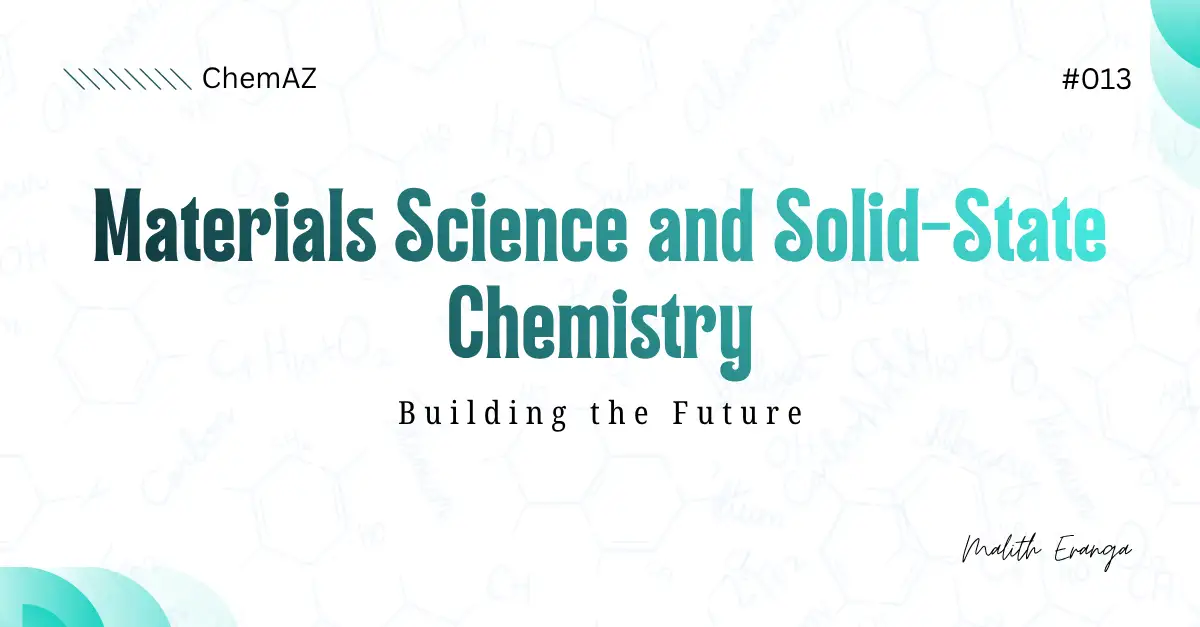
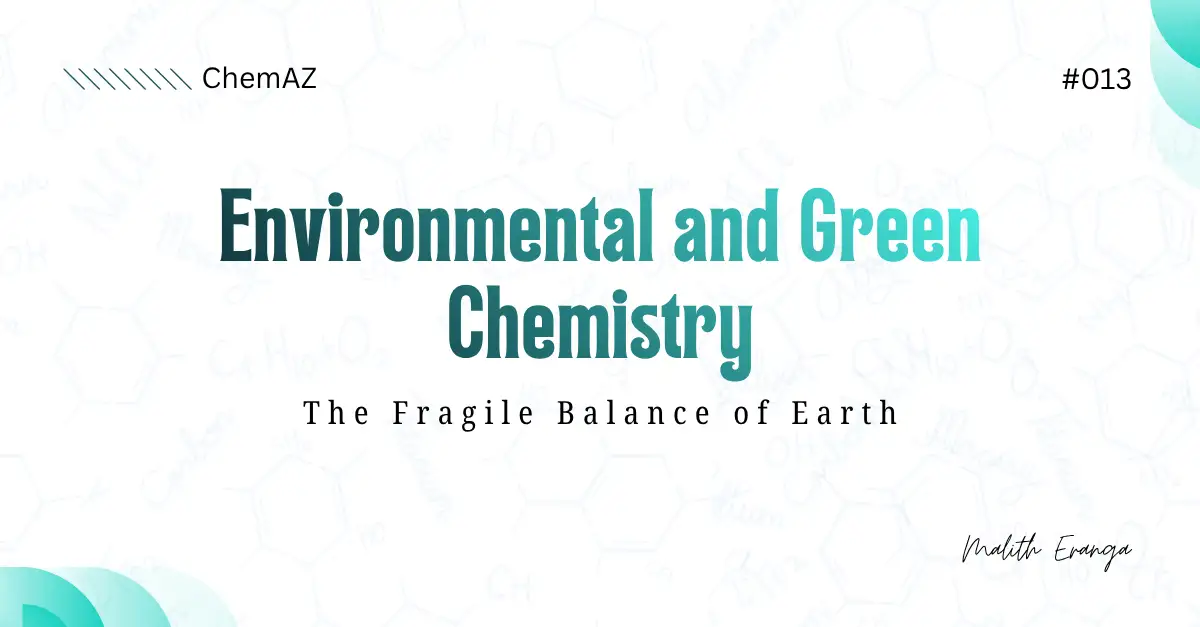
11

Changed region(s): [[0.0617, 0.303, 0.925, 0.4242], [0.2467, 0.6364, 0.74, 0.697]]

diff --git a/Article.html b/Article.html
@@ -1323,9 +1323,158 @@
             {
                 id: 15, 
                 category: 'ChemAZ', 
-                title: 'Materials Science and Solid-State Chemistry - Building the Future',
+                title: 'Environmental and Green Chemistry - The Fragile Balance of Earth',
                 date: 'October 15, 2026', 
                 image: 'Article/A13.webp',
+                excerpt: 'We live inside a planetary-scale chemical reactor known as Earth. Dive into Environmental Chemistry to understand how our planet breathes, and explore the revolutionary paradigm shift of Green Chemistry designed to save our civilization.',
+                content: `
+                    <p>Throughout the vast, sequential journey of the ChemAZ Series, we have meticulously built an understanding of the physical universe from the bottom up. We started with the indivisible atom and the elegant map of the Periodic Table. We observed how energy dictates the states of matter, how organic carbon weaves the complex tapestry of life, how biochemistry automates human cells, and how the relentless laws of thermodynamics govern the fate of stars.</p>
+                    <p>Until now, we have mostly treated these chemical principles as isolated phenomena. We have imagined them occurring inside perfectly controlled laboratory beakers, or within the strictly regulated, microscopic borders of a single biological cell.</p>
+                    <p>But reality is not a closed laboratory. We exist on a massive, chaotic, incredibly dynamic sphere composed of interacting liquids, solids, and gases. We live inside a planetary-scale chemical reactor known as Earth.</p>
+                    <p>Every single chemical law we have studied applies to our planet. The atmosphere, the oceans, the soil, and all living organisms are locked in a continuous, multi-billion-year-old chemical exchange. However, over the past two centuries, a single biological species - humanity - has industrialized to the point where we are now capable of altering the fundamental chemical equilibrium of the entire globe.</p>
+                    <p>This brings us to one of the most critical and urgent scientific disciplines of the modern era. In this massive, comprehensive exploration, we will dive into Environmental Chemistry to understand exactly how our planet breathes, regulates its temperature, and purifies its water. We will examine the microscopic mechanics of the ozone layer, the quantum physics of the greenhouse effect, and the chemical tragedy of oceanic dead zones. Finally, we will explore the revolutionary paradigm shift of Green Chemistry - the ultimate scientific roadmap designed to save our civilization from its own toxic success.</p>
+
+                    <h3>Defining the Chemical Sphere: The Four Realms of Earth</h3>
+                    <p>Environmental chemistry is the study of chemical species in the natural environment, tracking their sources, reactions, transport, and ultimate fates. To comprehend this massive system, chemists divide the Earth into four interconnected spheres:</p>
+                    <ul>
+                        <li><strong>1. The Atmosphere:</strong> The thin, gaseous envelope surrounding the planet, regulating temperature and shielding the surface from cosmic radiation.</li>
+                        <li><strong>2. The Hydrosphere:</strong> All the liquid and frozen water on the planet, acting as the universal solvent and the primary thermal sink for global heat.</li>
+                        <li><strong>3. The Lithosphere:</strong> The solid, rocky crust and upper mantle of the Earth, containing the soils and mineral deposits that provide the foundational nutrients for all life.</li>
+                        <li><strong>4. The Biosphere:</strong> The sum of all living organisms, acting as a massive, automated chemical processing engine that constantly cycles carbon, nitrogen, and oxygen through the other three spheres.</li>
+                    </ul>
+                    <p>Environmental chemistry is the study of what happens when these four spheres overlap and trade atoms.</p>
+
+                    <h3>The Chemistry of the Atmosphere: The Breath of the Planet</h3>
+                    <p>The Earth's atmosphere is not a static, empty void. It is a highly pressurized, violently active chemical soup. By volume, the dry atmosphere is composed of roughly 78 percent Nitrogen gas (N2) and 21 percent Oxygen gas (O2). The remaining 1 percent is a mixture of Argon, Carbon Dioxide, and trace gases.</p>
+                    <p>However, the atmosphere is not uniform. Gravity compresses the gas, meaning the air is thickest at the surface and becomes progressively thinner as you travel upward into space. Chemists divide the atmosphere into layers based on temperature gradients. The two most chemically important layers are the Troposphere and the Stratosphere.</p>
+                    
+                    <p><strong>The Troposphere: The Realm of Weather</strong><br>
+                    The troposphere is the lowest layer, extending from the ground up to about 10 kilometers. This is where we live, where airplanes fly, and where almost all the water vapor in the atmosphere exists. Because of the water vapor and the immense heat radiating off the Earth's surface, the troposphere is a chaotic, turbulent place. It is defined by rapid vertical mixing, massive storm systems, and continuous chemical reactions driven by sunlight.</p>
+                    
+                    <p><strong>The Stratosphere: The Silent Shield</strong><br>
+                    Above the troposphere lies the stratosphere, extending up to 50 kilometers. Unlike the turbulent troposphere, the stratosphere is highly stratified and calm. There are no clouds, no rain, and almost no vertical mixing of air. Once a chemical enters the stratosphere, it can remain trapped there for decades. This calm, high-altitude layer contains one of the most important chemical defenses in the solar system: the Ozone Layer.</p>
+
+                    <h3>The Ozone Paradox: A Shield and a Pollutant</h3>
+                    <p>Ozone is a unique, highly reactive molecule consisting of exactly three oxygen atoms bonded together (O3). In environmental chemistry, ozone suffers from a bizarre dual identity. Its impact on human life depends entirely on where it is located.</p>
+                    <p>Down in the troposphere, where we breathe, ozone is a highly toxic pollutant. It is a powerful oxidizing agent that burns lung tissue, exacerbates asthma, and destroys agricultural crops. Ground-level ozone is the primary ingredient in photochemical smog, created when vehicle exhaust reacts with intense summer sunlight.</p>
+                    <p>But high up in the stratosphere, ozone is the literal savior of all terrestrial life.</p>
+                    
+                    <p><strong>The Chapman Cycle: The Sacrificial Shield</strong><br>
+                    The sun constantly bombards the Earth with lethal, high-energy Ultraviolet (UV) radiation. If this raw UV radiation reached the surface, it would instantly shatter the DNA of every living organism, sterilizing the surface of the planet.</p>
+                    <p>The stratospheric ozone layer prevents this through a miraculous, continuous chemical reaction known as the Chapman Cycle.</p>
+                    <p>When high-energy UV-C radiation strikes a normal, two-atom oxygen molecule (O2), the energy completely shatters the covalent bond, splitting it into two lonely, highly reactive oxygen atoms. These free oxygen atoms immediately crash into other intact O2 molecules, fusing to create Ozone (O3).</p>
+                    <p>When slightly lower-energy UV-B radiation strikes the newly formed Ozone molecule, the ozone absorbs the deadly radiation and shatters, reverting back into normal O2 and a free oxygen atom.</p>
+                    <p>This continuous cycle of breaking apart and rebuilding acts as a perfect, sacrificial thermal shield. The ozone layer physically absorbs over 98 percent of the sun's lethal UV radiation, converting that deadly energy into harmless thermal heat.</p>
+                    
+                    <p><strong>The Chemical Tragedy of CFCs</strong><br>
+                    In the 1920s, chemists invented a class of synthetic chemicals called Chlorofluorocarbons (CFCs). These molecules, made of carbon, chlorine, and fluorine, were hailed as a miracle of modern engineering. They were non-toxic, non-flammable, and chemically inert, making them perfect for use as refrigerants in air conditioners and propellants in aerosol hairsprays.</p>
+                    <p>Because CFCs were so incredibly stable, they did not react with anything in the lower atmosphere. Instead, over decades, they slowly drifted upward until they reached the stratosphere.</p>
+                    <p>Once in the stratosphere, the CFCs were exposed to the raw, unshielded UV radiation of the sun. The extreme UV energy shattered the carbon-chlorine bonds, releasing highly reactive, free Chlorine atoms (chlorine free radicals).</p>
+                    <p>This is where the tragedy occurred. A single chlorine free radical acts as a hyper-efficient catalyst for the destruction of ozone. The chlorine atom rips an oxygen atom away from an ozone molecule, destroying the ozone. It then drops the oxygen atom and moves on to attack another ozone molecule. A single chlorine atom can destroy over 100,000 ozone molecules before it is finally removed from the stratosphere.</p>
+                    <p>By the 1980s, analytical chemists discovered a massive, terrifying "hole" in the ozone layer over Antarctica. The synthetic chemicals we had designed to keep our refrigerators cold were systematically dismantling the planetary shield that protected our DNA. In an unprecedented triumph of global environmental chemistry, the world signed the Montreal Protocol in 1987, universally banning the production of CFCs. Today, the ozone layer is slowly, painstakingly repairing itself.</p>
+
+                    <h3>The Thermodynamics of the Greenhouse Effect</h3>
+                    <p>While the ozone layer protects us from incoming ultraviolet light, another atmospheric mechanism regulates the outgoing heat. This is the Greenhouse Effect, and to understand it, we must apply the quantum physics of molecular vibration that we discussed in Part 009.</p>
+                    <p>The sun heats the Earth using visible light. This high-energy light passes straight through the atmosphere without interacting with the gases. The ground absorbs this visible light, heats up, and radiates that energy back out toward space. However, because the Earth is much cooler than the sun, it radiates energy at a much lower frequency: Infrared Radiation (thermal heat).</p>
+                    <p>If the Earth had no atmosphere, all of this infrared heat would escape instantly into the frozen vacuum of space. The average temperature of the Earth would be roughly -18 degrees Celsius, and our oceans would be solid blocks of ice.</p>
+                    <p>We are kept warm by Greenhouse Gases - primarily Carbon Dioxide (CO2), Methane (CH4), and Water Vapor (H2O).</p>
+                    <p>Why do these specific gases trap heat, while the Nitrogen (N2) and Oxygen (O2) that make up 99 percent of our air do not? It comes down to quantum geometry.</p>
+                    <p>Nitrogen and Oxygen are diatomic molecules made of two identical atoms. They are perfectly symmetrical. When an infrared heat wave hits them, they cannot absorb the energy, so the heat passes right through them.</p>
+                    <p>Carbon Dioxide and Methane are polyatomic molecules. They have multiple bonds and complex geometries. When an infrared heat wave strikes a CO2 molecule, the molecule physically absorbs the quantum energy. The carbon-oxygen double bonds begin to violently vibrate, stretch, and bend.</p>
+                    <p>The CO2 molecule traps the heat energy for a fraction of a millisecond, and then it re-radiates that heat in a random direction. Much of that heat is radiated back down toward the surface of the Earth. The greenhouse gases act like a massive, invisible thermal blanket, bouncing the heat back and forth and raising the average global temperature to a comfortable, life-sustaining 15 degrees Celsius.</p>
+                    
+                    <p><strong>Anthropogenic Climate Change: The Imbalance of Carbon</strong><br>
+                    The greenhouse effect is a perfectly natural, essential chemical process. The crisis of Climate Change is simply a problem of extreme mathematical imbalance.</p>
+                    <p>For hundreds of millions of years, the Earth safely locked massive amounts of carbon underground in the form of highly compressed hydrocarbons - coal, oil, and natural gas. In the late 18th century, humanity discovered that we could dig up these hydrocarbons and subject them to an exothermic combustion reaction to generate immense mechanical power.</p>
+                    <p>By burning fossil fuels, we are taking carbon that was safely buried for 300 million years and instantly injecting it directly into the atmosphere as Carbon Dioxide. Since the Industrial Revolution, we have artificially increased the concentration of atmospheric CO2 by over 50 percent.</p>
+                    <p>By adding more vibrating, heat-trapping molecules to the atmospheric blanket, we are mathematically forcing the planet to retain more thermal energy. The thermodynamics are undeniable. This excess heat melts glacial ice, causes the thermal expansion of the oceans (leading to catastrophic sea-level rise), and injects massive amounts of chaotic kinetic energy into weather systems, resulting in super-hurricanes and devastating droughts.</p>
+                    
+                    <p><strong>Ocean Acidification: The Silent Collapse</strong><br>
+                    The excess CO2 does not just stay in the air. As we discussed in Part 006 regarding Acids and Bases, gases dissolve into liquids. The Earth's oceans act as a massive chemical sink, absorbing roughly 30 percent of all the artificial CO2 emitted by human industry.</p>
+                    <p>When CO2 dissolves in seawater, it undergoes a synthesis reaction with H2O to form Carbonic Acid. This massive influx of acid forces the pH of the global oceans to drop. Because the pH scale is logarithmic, the oceans are now roughly 30 percent more acidic than they were in pre-industrial times.</p>
+                    <p>This drop in pH unleashes a swarm of free hydrogen ions. These hydrogen ions aggressively bond with carbonate molecules in the water. Unfortunately, marine life like corals, oysters, and plankton desperately need those exact same carbonate molecules to build their calcium carbonate shells. The acidic water literally steals the building blocks of marine life. If the ocean pH drops too far, the water will become so corrosive that it will physically dissolve existing coral reefs, collapsing the foundation of the entire marine food web.</p>
+
+                    <h3>The Hydrosphere: The Universal Solvent's Burden</h3>
+                    <p>Beyond absorbing carbon, the hydrosphere faces immense chemical threats from industrial pollution. Because water is a highly polar molecule, it is the universal solvent. It dissolves and transports almost everything it touches, including heavy metals and synthetic agricultural chemicals.</p>
+                    
+                    <p><strong>Heavy Metal Toxicity and Biomagnification</strong><br>
+                    Industrial processes like mining, coal combustion, and battery manufacturing release heavy metals like Lead, Mercury, and Cadmium into the environment.</p>
+                    <p>Unlike organic compounds, heavy metals are fundamental elements on the Periodic Table. They cannot be broken down, burned, or destroyed. Once a mercury atom enters a river, it remains a mercury atom forever.</p>
+                    <p>When heavy metals enter the water, they are absorbed by microscopic algae. Because the heavy metals are not biologically useful, the algae cannot digest or excrete them. The metals become permanently trapped in the cellular tissue - a process called Bioaccumulation.</p>
+                    <p>When a small fish eats a thousand algae cells, it absorbs all the mercury from those thousand cells. When a larger fish eats a hundred small fish, it absorbs all of that accumulated mercury. By the time a top predator, like a tuna or a human being, eats the large fish, the concentration of the toxic heavy metal has been mathematically multiplied by millions. This terrifying compounding effect is called Biomagnification.</p>
+                    <p>Heavy metals are devastating to biological life because they act as brutal enzyme inhibitors (as discussed in Part 008). Lead and Mercury ions are shaped perfectly to jam themselves into the active sites of critical neurological enzymes, permanently disabling the human nervous system and causing severe cognitive destruction.</p>
+
+                    <p><strong>Eutrophication: The Paradox of Too Many Nutrients</strong><br>
+                    Not all water pollution involves toxic poisons. Sometimes, environmental collapse is caused by an overdose of life-giving nutrients.</p>
+                    <p>To grow crops rapidly, human agriculture relies on massive amounts of synthetic fertilizers, which are heavily packed with Nitrogen and Phosphorus. When it rains, the excess, unabsorbed fertilizer washes off the farm fields and flows into rivers and eventually the ocean.</p>
+                    <p>Nitrogen and phosphorus are the primary limiting nutrients for aquatic life. When millions of tons of these nutrients suddenly flood a shallow bay, it triggers an explosive, unnatural biological reaction. The microscopic algae in the water undergo a massive population explosion, creating an Algal Bloom that covers the surface of the water in a thick green slime.</p>
+                    <p>While the algae are alive, they block sunlight from reaching the underwater plants below. But the true disaster happens when the massive algae population inevitably runs out of nutrients and dies.</p>
+                    <p>Billions of dead algae cells sink to the bottom of the ocean. Massive swarms of decomposing bacteria begin to eat the dead algae. Because these bacteria require oxygen to survive (cellular respiration), their massive population explosion completely strips every single molecule of dissolved oxygen out of the surrounding water.</p>
+                    <p>The water becomes completely hypoxic (oxygen-starved). Any fish, crab, or marine mammal trapped in this area suffocates to death. This process, known as Eutrophication, creates massive, expanding "Dead Zones" at the mouths of major agricultural rivers worldwide.</p>
+
+                    <h3>The Lithosphere and the Haber-Bosch Miracle</h3>
+                    <p>How did we get so much synthetic fertilizer in the first place? To understand the massive impact of agriculture on the lithosphere (the soil), we must look at one of the most important and morally complex chemical reactions in human history.</p>
+                    <p>Nitrogen is an essential building block for amino acids, proteins, and DNA. Although the atmosphere is 78 percent nitrogen gas (N2), plants and animals cannot use it. The two nitrogen atoms in N2 are held together by an incredibly powerful, almost unbreakable triple covalent bond. To be biologically useful, the nitrogen must be "fixed" - the triple bond must be shattered, and the nitrogen must be attached to hydrogen to form Ammonia (NH3).</p>
+                    <p>For millions of years, the only way nitrogen was fixed was by rare, specialized bacteria in the soil or by the extreme electrical energy of lightning strikes. The limited amount of fixed nitrogen in the soil acted as a strict, natural speed limit on the total population of the Earth. By the early 1900s, the global population had reached 1.6 billion, and scientists warned of an impending global famine because the agricultural soils were running out of nitrogen.</p>
+                    <p>Enter the German chemists Fritz Haber and Carl Bosch.</p>
+                    <p>In 1909, they invented an artificial, industrial method to shatter the nitrogen triple bond. The Haber-Bosch process takes pure nitrogen from the air and pure hydrogen gas, and subjects them to extreme, terrifying laboratory conditions.</p>
+                    <p>Applying the principles of Chemical Kinetics and Le Chatelier's Principle, they placed the gases inside a massive steel reactor under 200 atmospheres of crushing pressure and heated them to 500 degrees Celsius, using an iron catalyst to lower the activation energy.</p>
+                    <p>The extreme thermodynamic pressure forcefully breaks the triple bond, manufacturing thousands of tons of liquid ammonia out of thin air.</p>
+                    <p>The Haber-Bosch process is arguably the single most important chemical invention in human history. Today, over 50 percent of the nitrogen atoms in the proteins of your body were artificially manufactured in a high-pressure steel factory. Without this synthetic fertilizer, the Earth could only support a population of roughly 4 billion people. The other 4 billion people alive today exist entirely because of the brilliant manipulation of chemical thermodynamics.</p>
+                    <p>However, this miracle came with a devastating environmental cost. The massive overuse of these synthetic fertilizers caused the global eutrophication crisis mentioned above. Furthermore, Fritz Haber used his genius to weaponize chemistry during World War I, inventing the horrific chlorine gas weapons used in the trenches. The Haber-Bosch process is the ultimate representation of chemistry as a double-edged sword: a science capable of saving billions of lives and destroying the environment simultaneously.</p>
+
+                    <h3>The Paradigm Shift: The 12 Principles of Green Chemistry</h3>
+                    <p>For the vast majority of industrial history, the philosophy of chemical manufacturing was simple and brutally destructive: extract raw materials, synthesize the desired product as cheaply as possible, and dump the toxic waste byproducts into the nearest river or smokestack. Environmental protection was entirely reactive. Governments would wait until a river caught on fire or an ozone hole appeared, and then they would attempt to clean up the mess.</p>
+                    <p>By the 1990s, the scientific community realized that this reactive model was mathematically and thermodynamically unsustainable. We could not continue to poison the biosphere and hope to filter it out later.</p>
+                    <p>This realization birthed the revolutionary discipline of Green Chemistry.</p>
+                    <p>Pioneered by chemists Paul Anastas and John Warner, Green Chemistry is a fundamental paradigm shift. It dictates that environmental protection should not happen at the end of a drainpipe; it should happen on the chalkboard, at the very beginning of the molecular design process. The goal is to design chemical products and manufacturing processes that completely eliminate the generation of hazardous substances from the very first step.</p>
+                    <p>To guide the global scientific community, Anastas and Warner established the 12 Principles of Green Chemistry. These are the absolute commandments for the future of industrial science:</p>
+                    <ul>
+                        <li><strong>1. Prevention:</strong> It is better to prevent waste than to treat or clean up waste after it has been created.</li>
+                        <li><strong>2. Atom Economy:</strong> Synthetic methods should be designed to maximize the incorporation of all materials used in the process into the final product. If a reaction creates a massive amount of heavy chemical byproducts that must be thrown away, it is a bad reaction, regardless of how cheap it is.</li>
+                        <li><strong>3. Less Hazardous Chemical Synthesis:</strong> Wherever practicable, synthetic methods should use and generate substances that possess little or no toxicity to human health and the environment.</li>
+                        <li><strong>4. Designing Safer Chemicals:</strong> Chemical products should be designed to achieve their desired function while minimizing their toxicity.</li>
+                        <li><strong>5. Safer Solvents and Auxiliaries:</strong> The use of auxiliary substances (e.g., solvents, separation agents) should be made unnecessary wherever possible and innocuous when used. We must stop using toxic, highly volatile organic solvents and transition to safer alternatives like supercritical carbon dioxide or pure water.</li>
+                        <li><strong>6. Design for Energy Efficiency:</strong> Energy requirements of chemical processes should be recognized for their environmental and economic impacts and should be minimized. If a reaction requires 1,000 degrees of heat, we must find a biological enzyme that can do the exact same reaction at room temperature.</li>
+                        <li><strong>7. Use of Renewable Feedstocks:</strong> A raw material or feedstock should be renewable rather than depleting. We must transition away from using finite fossil fuels to build our plastics and instead use renewable agricultural biomass.</li>
+                        <li><strong>8. Reduce Derivatives:</strong> Unnecessary derivatization (use of blocking groups, protection/deprotection) should be minimized or avoided, as such steps require additional reagents and can generate massive waste.</li>
+                        <li><strong>9. Catalysis:</strong> Catalytic reagents (as selective as possible) are superior to stoichiometric reagents. A catalyst can be used a million times without being consumed; a standard reagent is consumed and thrown away immediately.</li>
+                        <li><strong>10. Design for Degradation:</strong> Chemical products should be designed so that at the end of their function they do not persist in the environment, but mathematically break down into innocuous degradation products. This is the foundation of biodegradable plastics.</li>
+                        <li><strong>11. Real-time Analysis for Pollution Prevention:</strong> Analytical methodologies need to be further developed to allow for real-time, in-process monitoring and control prior to the formation of hazardous substances.</li>
+                        <li><strong>12. Inherently Safer Chemistry for Accident Prevention:</strong> Substances and the form of a substance used in a chemical process should be chosen to minimize the potential for chemical accidents, including releases, explosions, and fires.</li>
+                    </ul>
+
+                    <h3>Practical Green Chemistry: A Laboratory Revolution</h3>
+                    <p>The 12 principles of green chemistry are not just theoretical ideals; they are actively transforming modern laboratories and heavy industries worldwide. We can look at highly specific, practical examples to see how this revolution is executed.</p>
+                    
+                    <p><strong>Green Synthesis of Nanoparticles</strong><br>
+                    In modern materials science, metallic nanoparticles (like silver or gold nanoparticles) are highly sought after for their use in medical sensors, highly efficient solar panels, and advanced electronics.</p>
+                    <p>Historically, synthesizing these nanoparticles in a lab required highly toxic, dangerous reducing agents like Sodium Borohydride or Hydrazine. These chemicals pose severe risks to the scientists handling them and create highly toxic chemical waste that is difficult to dispose of safely.</p>
+                    <p>Applying the principles of Green Chemistry, scientists completely redesigned the procedure. Instead of using toxic industrial chemicals, modern chemists can execute the "Green Synthesis" of silver nanoparticles using nothing but natural plant extracts - for example, the complex polyphenols found in standard Ceylon Tea leaves.</p>
+                    <p>When a silver nitrate solution is mixed with the tea extract, the natural, harmless antioxidants in the tea act as powerful reducing agents. They strip the electrons, safely reducing the silver ions into solid nanoscale particles, while naturally capping and stabilizing the particles to prevent them from clumping together. This entire process happens safely at room temperature, using a renewable feedstock (tea leaves), and the only waste product generated is perfectly harmless, biodegradable organic matter. It is a flawless execution of Green Chemistry.</p>
+
+                    <p><strong>Detoxifying the Textile Industry</strong><br>
+                    Another massive application of green chemistry is occurring in the global textile and clothing industry. Historically, dying fabrics required massive amounts of toxic heavy metals (acting as "mordants" to make the dye stick to the fabric) and highly carcinogenic synthetic dyes, such as heavy Azo dyes (like the infamous Congo Red).</p>
+                    <p>When these massive textile factories flushed their vats, millions of gallons of toxic, brightly colored, heavy-metal-laced water flooded into local rivers, destroying the aquatic biosphere and poisoning the drinking water of local populations.</p>
+                    <p>Green chemistry is attacking this problem from the ground up. Chemists are designing entirely new classes of dyes that bind to cotton and polyester fibers using strong, natural covalent bonds, completely eliminating the need for toxic heavy metal mordants. Furthermore, chemists are engineering specialized, harmless bacteria and bio-enzymes that can be added to the factory wastewater. These biological machines are programmed to specifically hunt down and aggressively digest any leftover dye molecules, breaking the complex toxic rings down into harmless water and carbon dioxide before the water ever leaves the factory pipe.</p>
+
+                    <h3>Conclusion: The Future of the Chemical Code</h3>
+                    <p>Environmental chemistry forces us to confront a humbling reality: the Earth is an isolated thermodynamic system. There is no outside help coming. Every single atom of toxic waste we create, every molecule of carbon we burn, and every drop of heavy metal we dump remains trapped inside the biosphere with us.</p>
+                    <p>For two hundred years, humanity wielded the immense power of chemistry like a blunt instrument, bending the world to our will without understanding the delicate, planetary-scale equations we were disrupting. We mastered the burning of hydrocarbons, the synthesis of plastics, and the cracking of the atom, but we ignored the eventual thermodynamic cost.</p>
+                    <p>However, the dawn of Green Chemistry represents a profound awakening. We are no longer simply exploiting the rules of the universe; we are learning to harmonize with them. By embracing atom economy, renewable feedstocks, and engineered degradation, we are proving that human technological advancement does not require the destruction of the natural world. Chemistry is the key to our survival.</p>
+                    <p>We have now journeyed from the deepest, invisible core of the atom, through the sprawling factories of the human cell, to the massive, turbulent atmosphere of the entire planet. But what exactly are we building with all of this knowledge? How do we use the carbon code, the power of electrons, and the precision of green chemistry to physically construct the futuristic cities, the space elevators, and the quantum computers of tomorrow?</p>
+                    <p>In the next, highly anticipated installment of the ChemAZ Series, we will explore Materials Science and Solid-State Chemistry - the cutting-edge engineering of impossibly strong alloys, frictionless superconductors, and the physical materials that will build the next century of human civilization.</p>
+                    
+                    <p style="margin-top: 20px; color: var(--accent);"><em>— Article by Malith Eranga</em></p>
+                `
+            },
+
+            {
+                id: 16, 
+                category: 'ChemAZ', 
+                title: 'Materials Science and Solid-State Chemistry - Building the Future',
+                date: 'October 16, 2026', 
+                image: 'Article/A14.webp',
                 excerpt: 'Humanity does not live in a world of theoretical equations. We live in a world of solid objects. Explore how the exact geometric arrangement of atoms dictates the physical reality of a solid.',
                 content: `
                     <p>Throughout the vast journey of the ChemAZ Series, we have systematically decoded the hidden rules of the universe. We have mapped the invisible electron clouds, explored the chaotic thermodynamics of the cosmos, tracked the flow of electrical currents, and dissected the biological factories that keep us alive. We have even explored the fragile environmental chemistry that sustains our entire planetary biosphere.</p>
@@ -1467,11 +1616,11 @@
             },
 
             {
-                id: 16, 
+                id: 17, 
                 category: 'ChemAZ', 
                 title: 'Astrochemistry and the Origin of the Elements - The Cosmic Furnace',
-                date: 'October 16, 2026', 
-                image: 'Article/A14.webp',
+                date: 'October 17, 2026', 
+                image: 'Article/A15.webp',
                 excerpt: 'Where did the elements actually come from? To find the true origin of matter, we must leave the Earth and peer into the hearts of burning stars and apocalyptic supernovae.',
                 content: `
                     <p>Throughout the ChemAZ Series, we have embarked on an exhaustive, highly detailed journey through the physical universe. We have mapped the invisible electron clouds that dictate chemical bonds. We have explored the massive, organic macromolecules that automate biological life. We have decoded the strict, unyielding laws of thermodynamics and entropy. We have even engineered the crystal lattices of semiconductors to build the digital age.</p>
